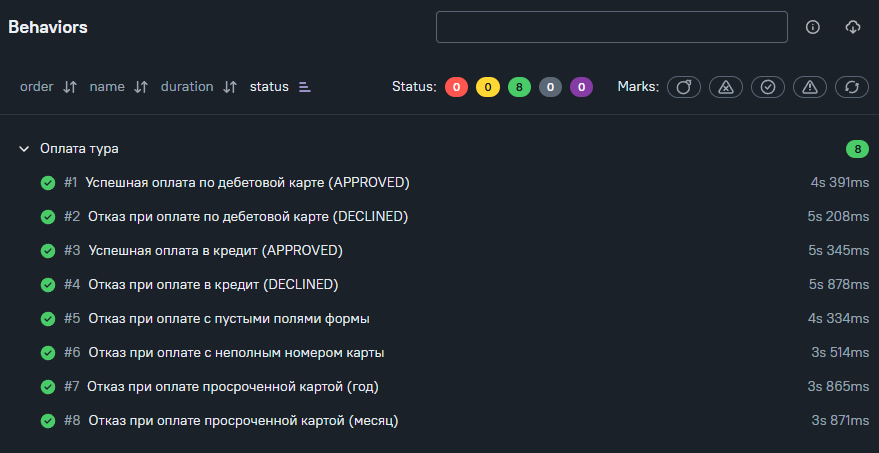
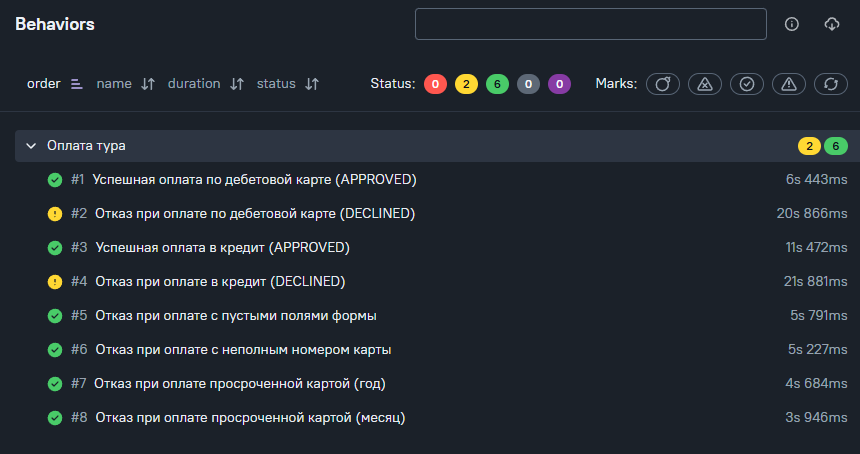
adding fixtures and UI tests

diff --git a/tests/test_payment.py b/tests/test_payment.py
@@ -12,72 +12,96 @@ API_URL = "http://localhost:8080/api/v1/pay"
 class TestPayment:
 
     @allure.title("Успешная оплата по дебетовой карте (APPROVED)")
-    def test_successful_debit_payment(self, driver):
+    def test_successful_debit_payment(self, driver, approved_card):
         driver.get("http://localhost:8080")
         driver.find_element(By.XPATH, "//span[text()='Купить']").click()
         page = PaymentPage(driver)
-        page.fill_card_data("4444 4444 4444 4441", "12", "26", "Ivanov Ivan", "123")
+        page.fill_card_data(
+            approved_card["number"],
+            approved_card["month"],
+            approved_card["year"],
+            approved_card["owner"],
+            approved_card["cvc"]
+        )
         page.click_submit()
 
-        response = requests.post(API_URL, json={
-            "number": "4444 4444 4444 4441",
-            "month": "12",
-            "year": "26",
-            "owner": "Ivanov Ivan",
-            "cvc": "123"
-        })
-        assert response.json()["status"] == "APPROVED"
+        with allure.step("Проверка API: статус APPROVED"):
+            response = requests.post(API_URL, json=approved_card)
+            assert response.json()["status"] == "APPROVED"
+
+        with allure.step("Проверка UI: уведомление об успехе"):
+            success = page.get_success_message()
+            assert success.is_displayed()
+            assert "Успешно" in success.text
 
     @allure.title("Отказ при оплате по дебетовой карте (DECLINED)")
-    def test_declined_debit_payment(self, driver):
+    def test_declined_debit_payment(self, driver, declined_card):
         driver.get("http://localhost:8080")
         driver.find_element(By.XPATH, "//span[text()='Купить']").click()
         page = PaymentPage(driver)
-        page.fill_card_data("4444 4444 4444 4442", "12", "26", "Ivanov Ivan", "123")
+        page.fill_card_data(
+            declined_card["number"],
+            declined_card["month"],
+            declined_card["year"],
+            declined_card["owner"],
+            declined_card["cvc"]
+        )
         page.click_submit()
 
-        response = requests.post(API_URL, json={
-            "number": "4444 4444 4444 4442",
-            "month": "12",
-            "year": "26",
-            "owner": "Ivanov Ivan",
-            "cvc": "123"
-        })
-        assert response.json()["status"] == "DECLINED"
+        with allure.step("Проверка API: статус DECLINED"):
+            response = requests.post(API_URL, json=declined_card)
+            assert response.json()["status"] == "DECLINED"
+
+        with allure.step("Проверка UI: уведомление об ошибке"):
+            error = page.get_error_message()
+            assert error.is_displayed()
+            assert "Ошибка" in error.text
 
     @allure.title("Успешная оплата в кредит (APPROVED)")
-    def test_successful_credit_payment(self, driver):
+    def test_successful_credit_payment(self, driver, approved_card):
         driver.get("http://localhost:8080")
         driver.find_element(By.XPATH, "//span[text()='Купить в кредит']").click()
         page = PaymentPage(driver)
-        page.fill_card_data("4444 4444 4444 4441", "12", "26", "Ivanov Ivan", "123")
+        page.fill_card_data(
+            approved_card["number"],
+            approved_card["month"],
+            approved_card["year"],
+            approved_card["owner"],
+            approved_card["cvc"]
+        )
         page.click_submit()
 
-        response = requests.post(API_URL, json={
-            "number": "4444 4444 4444 4441",
-            "month": "12",
-            "year": "26",
-            "owner": "Ivanov Ivan",
-            "cvc": "123"
-        })
-        assert response.json()["status"] == "APPROVED"
+        with allure.step("Проверка API: статус APPROVED"):
+            response = requests.post(API_URL, json=approved_card)
+            assert response.json()["status"] == "APPROVED"
+
+        with allure.step("Проверка UI: уведомление об успехе"):
+            success = page.get_success_message()
+            assert success.is_displayed()
+            assert "Успешно" in success.text
 
     @allure.title("Отказ при оплате в кредит (DECLINED)")
-    def test_declined_credit_payment(self, driver):
+    def test_declined_credit_payment(self, driver, declined_card):
         driver.get("http://localhost:8080")
         driver.find_element(By.XPATH, "//span[text()='Купить в кредит']").click()
         page = PaymentPage(driver)
-        page.fill_card_data("4444 4444 4444 4442", "12", "26", "Ivanov Ivan", "123")
+        page.fill_card_data(
+            declined_card["number"],
+            declined_card["month"],
+            declined_card["year"],
+            declined_card["owner"],
+            declined_card["cvc"]
+        )
         page.click_submit()
 
-        response = requests.post(API_URL, json={
-            "number": "4444 4444 4444 4442",
-            "month": "12",
-            "year": "26",
-            "owner": "Ivanov Ivan",
-            "cvc": "123"
-        })
-        assert response.json()["status"] == "DECLINED"
+        with allure.step("Проверка API: статус DECLINED"):
+            response = requests.post(API_URL, json=declined_card)
+            assert response.json()["status"] == "DECLINED"
+
+        with allure.step("Проверка UI: уведомление об ошибке"):
+            error = page.get_error_message()
+            assert error.is_displayed()
+            assert "Ошибка" in error.text
 
     @allure.title("Отказ при оплате с пустыми полями формы")
     def test_empty_fields(self, driver):

diff --git a/tests/conftest.py b/tests/conftest.py
@@ -12,3 +12,23 @@ def driver():
     driver.implicitly_wait(10)
     yield driver
     driver.quit()
+
[email redacted]
+def approved_card():
+    return {
+        "number": "4444 4444 4444 4441",
+        "month": "12",
+        "year": "26",
+        "owner": "Ivanov Ivan",
+        "cvc": "123"
+    }
+
[email redacted]
+def declined_card():
+    return {
+        "number": "4444 4444 4444 4442",
+        "month": "12",
+        "year": "26",
+        "owner": "Ivanov Ivan",
+        "cvc": "123"
+    }

diff --git a/Report.md b/Report.md
@@ -9,6 +9,7 @@
 ## Allure-отчёт
 
 ![alt text](image.png)
+![alt text](image-1.png)
 
 ## Найденные баги
 В ходе тестирования выявлены следующие дефекты: